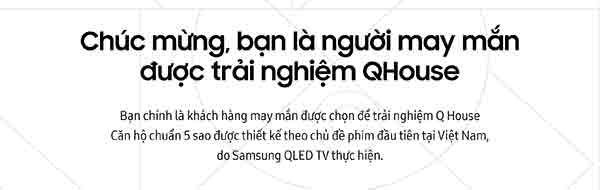
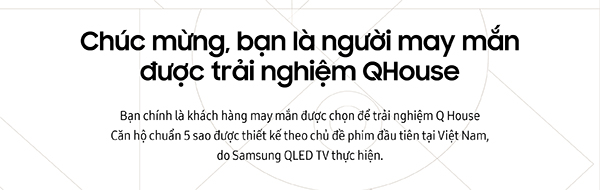
update pic
update pic

diff --git a/newsletter/edm-ss-kingsman.html b/newsletter/edm-ss-kingsman.html
@@ -34,12 +34,12 @@ th {
 	text-align: left;
 }
 
-img{border:none;outline:none;display:block;max-width:100%;}
+img{border:none;outline:none;display:block;width:100%;}
 
 </style>
 
-
 </head>
+
 
 
 <body style="margin:0;padding:0;min-width:100%">
@@ -52,7 +52,7 @@ img{border:none;outline:none;display:block;max-width:100%;}
 </tr>
 
 <tr>
-<td align="center"><img border="0" style="width:100%;display: block;line-height: 0;padding-top:0;padding-bottom:0;padding-right:0;padding-left:0; border:0;outline:none;text-decoration:none;-ms-interpolation-mode:bicubic;" src="https://nvquyet2224.github.io/template/newsletter/images/email/ss-kingsman-01.jpg" alt="Chúc mừng bạn, là người may mắn được trải nghiệm Qhouse" /></td>
+<td align="center"><img src="https://nvquyet2224.github.io/template/newsletter/images/email/ss-kingsman-01.jpg" alt="Chúc mừng bạn, là người may mắn được trải nghiệm Qhouse" /></td>
 </tr>
 
 <tr>
@@ -62,7 +62,7 @@ img{border:none;outline:none;display:block;max-width:100%;}
 <tr>
 <td align="center">
 <a href="https://trainghiemqled.vnsamsungcampaign.com/diep-vien-kingsman" target="_blank"><img src="https://nvquyet2224.github.io/template/newsletter/images/email/ss-kingsman-03.jpg" alt="Căn hộ bậc Q House Điệp Viên Kingsman" /></a>
-<p align="center" style="font-size:12px;margin-top:-21px;padding-bottom:7px;font-family:Arial, Helvetica, sans-serif">Ngày đặt: <strong>14/05/2018</strong></p>
+<p align="center" style="font-size:12px;margin-top:-21px;padding-bottom:7px;position:relative;top:-23px;font-family:Arial, Helvetica, sans-serif">Ngày đặt: <strong>14/05/2018</strong></p>
 </td>
 </tr>
 
